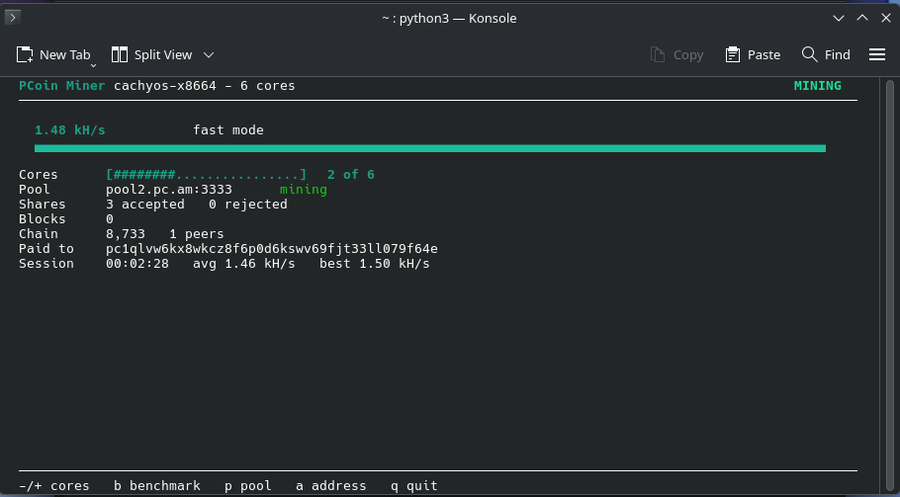
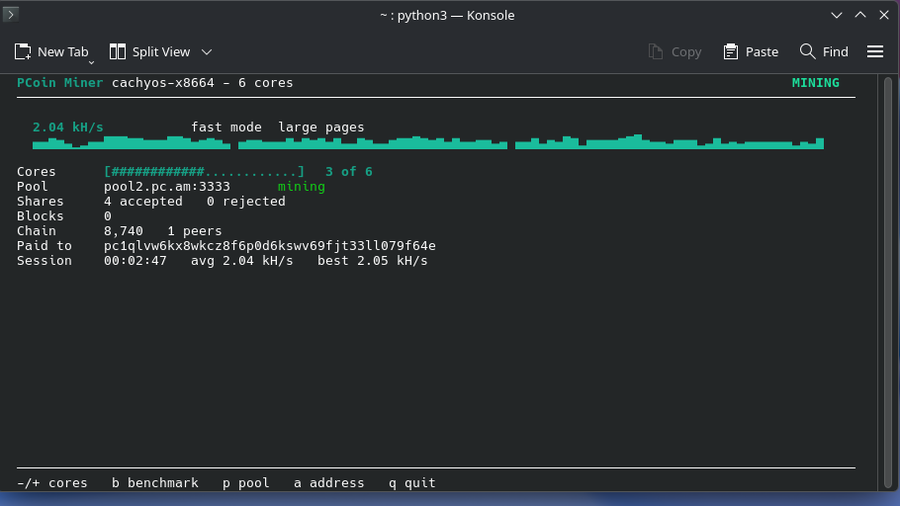
site: terminal screenshot at the real optimum, 2.04 kH/s on large pages
Retaken with the overlapping AI Control window minimised for the shot and
restored afterwards -- the previous attempt had a Mesh VPN dialog across it,
which would also have published the fleet's mesh IPs.

Changed region(s): [[0.0, 0.0, 1.0, 1.0], [0.0, 0.2414, 0.9333, 0.5433]]

diff --git a/site/mining/index.html b/site/mining/index.html
@@ -159,7 +159,8 @@
         <h2>The terminal miner — any distribution</h2>
         <figure class="shot">
           <img src="/img/miner-linux-terminal.png" alt="pcoin-miner running in a terminal in fast mode" width="900" height="497" loading="lazy">
-          <figcaption><code>pcoin-miner</code> — live in a terminal. Works over SSH on a headless server.</figcaption>
+          <figcaption><code>pcoin-miner</code> — live in a terminal, at 2.04 kH/s in fast mode on
+          large pages. Works over SSH on a headless server.</figcaption>
         </figure>
         <p class="muted">A single Python file, standard library only, so it runs anywhere Python 3
         does. It drives a node you already have and shows the work live:</p>
